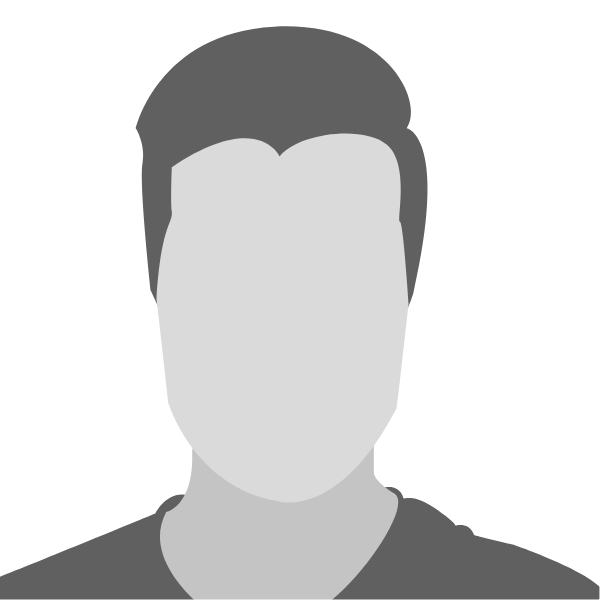
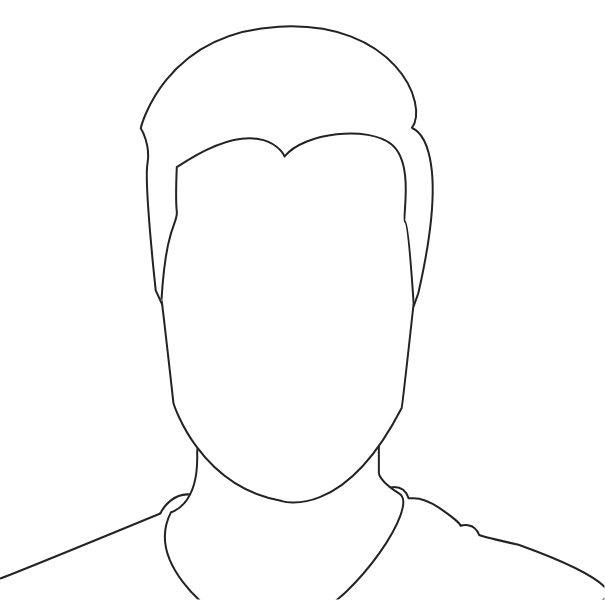
UI Work

diff --git a/src/components/homepage.js b/src/components/homepage.js
@@ -2,6 +2,8 @@ import React from "react"
 import styled from "styled-components"
 import colors from "../globals/colors"
 import MediaQueries from "../Utils/mediaQueries"
+import { useStaticQuery, graphql } from "gatsby"
+import Img from "gatsby-image"
 
 const HomepageContainer = styled.div`
 padding-top: 220px;
@@ -17,6 +19,7 @@ grid-template-columns: repeat(2, 1fr);
 ${MediaQueries.queries.tablet`
 padding-top: 100px; 
 grid-template-columns: repeat(1, 1fr);
+position: relative;
 `}
 `
 const TextColummn = styled.div`
@@ -25,6 +28,11 @@ height: 100%;
 
 display: flex;
 align-items: center;
+
+${MediaQueries.queries.tablet`
+z-index: 2;
+`}
+
 `
 
 const TextContainer = styled.div`
@@ -35,50 +43,24 @@ width: 100%;
 height: 100%;
 
 ${MediaQueries.queries.tablet`
-display: flex;
-align-items: flex-end;
+z-index: 1;
+position: absolute;
+left: 170px;
+bottom: 0;
+width: 580px;
+height: 580px;
+opacity: 0.1;
 `}
 
 `
 
 const ProfileImage = styled.div`
-background-color: ${colors.accentColor};
+background-color: ${colors.baseColor};
 width: 100%;
 height: 100%;
 
 ${MediaQueries.queries.tablet`
-display: none;
-`}
-`
 
-const BottomBackground = styled.div`
-width: 100%;
-display: none;
-
-&:before,
-&:after,
-& > div {
-width: 100%;
-height: 50px;
-background-color: ${colors.accentColor};
-content: '';
-display: block;
-}
-
-&:before{
- opacity: 0.5;
-}
-
-& > div{
-opacity: 0.7;
-}
-
-&:after{
-opacity: 1;
-}
-
-${MediaQueries.queries.tablet`
-display: block;
 `}
 `
 
@@ -91,7 +73,20 @@ const NoBreakLineSpan = styled.span`
 white-space:nowrap;
 `
 
-function Homepage(props) {
+function Homepage() {
+
+    const image = useStaticQuery(graphql`
+    query {
+        profilePicImage: file(relativePath: { eq: "profile_pic.png" }) {
+          childImageSharp {
+            fixed(width: 580) {
+              ...GatsbyImageSharpFixed
+            }
+          }
+        }
+      }
+  `)
+
     return (
         <HomepageContainer>
             <TextColummn>
@@ -101,20 +96,18 @@ function Homepage(props) {
                     <mark> Ho 21 anni </mark> , vivo in Umbria, e da 2 anni lavoro come <mark> sviluppatore </mark>, principalmente in <mark> c# </mark>, sia in ambiente WinForm che MVC Asp.Net.<br/>
                     Ho inoltre sviluppato alcune <mark> app Android </mark> nel tempo libero, oltre ad aver sempre avuto una passione per quello che riguarda la <mark> grafica e il design. </mark>
                     </p> 
-                    <ScrollLinkText onClick={ () => props.moveSectionDown() } >
+                    <ScrollLinkText>
                     Scorri per visualizzare il resto del sito.
                     </ScrollLinkText>
                 </TextContainer>
             </TextColummn>      
             <ContentColumn>
-                <ProfileImage>    
-                </ProfileImage>
-                <BottomBackground>
-                    <div></div>
-                </BottomBackground>     
+                <ProfileImage>  
+                    <Img fixed={image.profilePicImage.childImageSharp.fixed} />   
+                </ProfileImage>  
             </ContentColumn>   
-
         </HomepageContainer>
     )
   }
+
   export default Homepage

diff --git a/src/components/navbar.js b/src/components/navbar.js
@@ -8,7 +8,7 @@ import Media from 'react-media';
 
 const MenuIconCointainer = styled.div`
 margin-right: 30px;
-z-index: 3;
+z-index: 5;
 position:fixed;
 right: 0;
 height: 100px;
@@ -64,7 +64,7 @@ display: flex;
 justify-content: space-between;
 align-items: center;
 padding: 30px;
-z-index: 1;
+z-index: 3;
 
 ${MediaQueries.queries.tablet`
   height: 100px; 
@@ -148,7 +148,7 @@ class Navbar extends React.Component  {
         query {
           desktopLogoImage: file(relativePath: { eq: "logo.png" }) {
             childImageSharp {
-              fixed(height: 70) {
+              fixed(height: 60) {
                 ...GatsbyImageSharpFixed
               }
             }

diff --git a/src/utils/typography.js b/src/utils/typography.js
@@ -25,12 +25,12 @@ const typography = new Typography({
   overrideStyles: ({scale}, options) => ({
     "@media only screen and (max-width: 768px)": { //TODO Replace with mediaquery
       html: {
-        ...scale(1/4),
+        //...scale(1/4),
       },
     },
     "@media only screen and (max-width: 576px)": { //TODO Replace with mediaquery
       html: {
-        ...scale(1/8),
+        //...scale(1/10),
       },
     },
     body: {

diff --git a/src/components/navMenuMobile.js b/src/components/navMenuMobile.js
@@ -8,7 +8,7 @@ top:0;
 height:100%;
 width:100%;
 background-color: ${colors.primaryColor};
-z-index: 2;
+z-index: 4;
 overflow-y: hidden;
 max-height: 100%;
   
